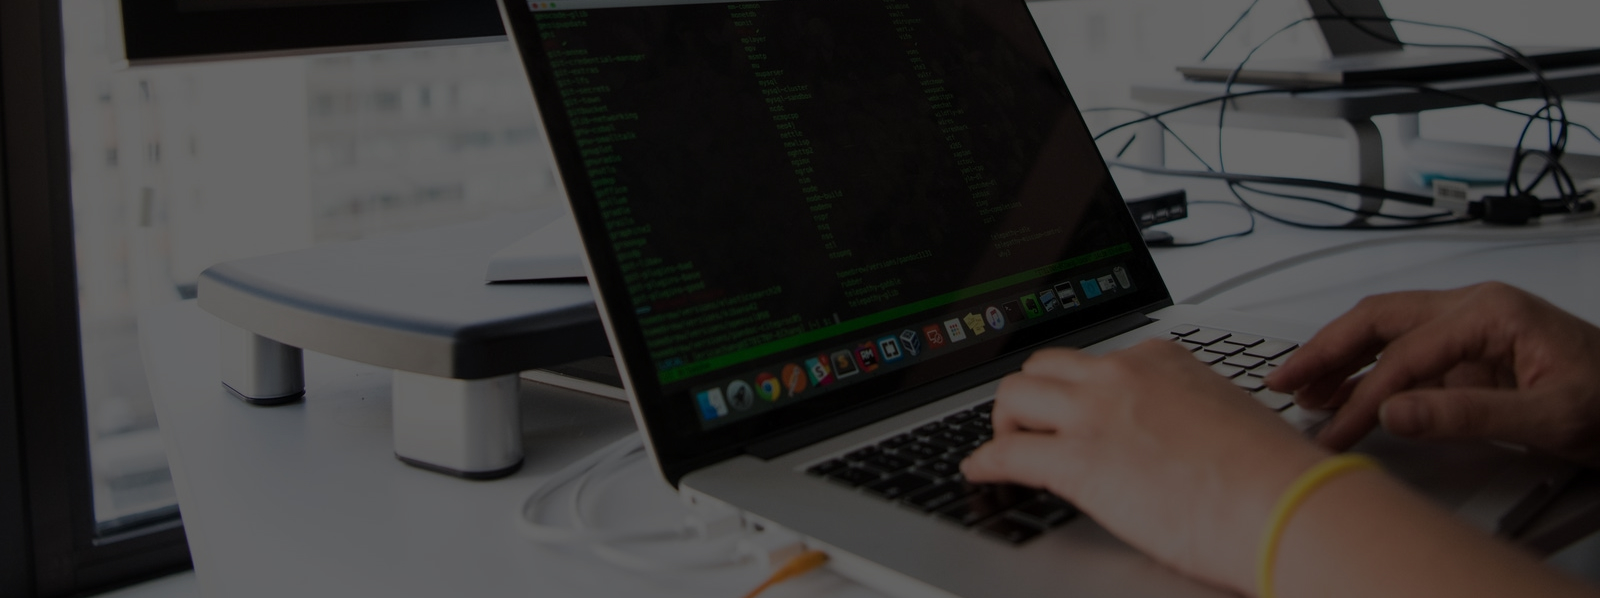
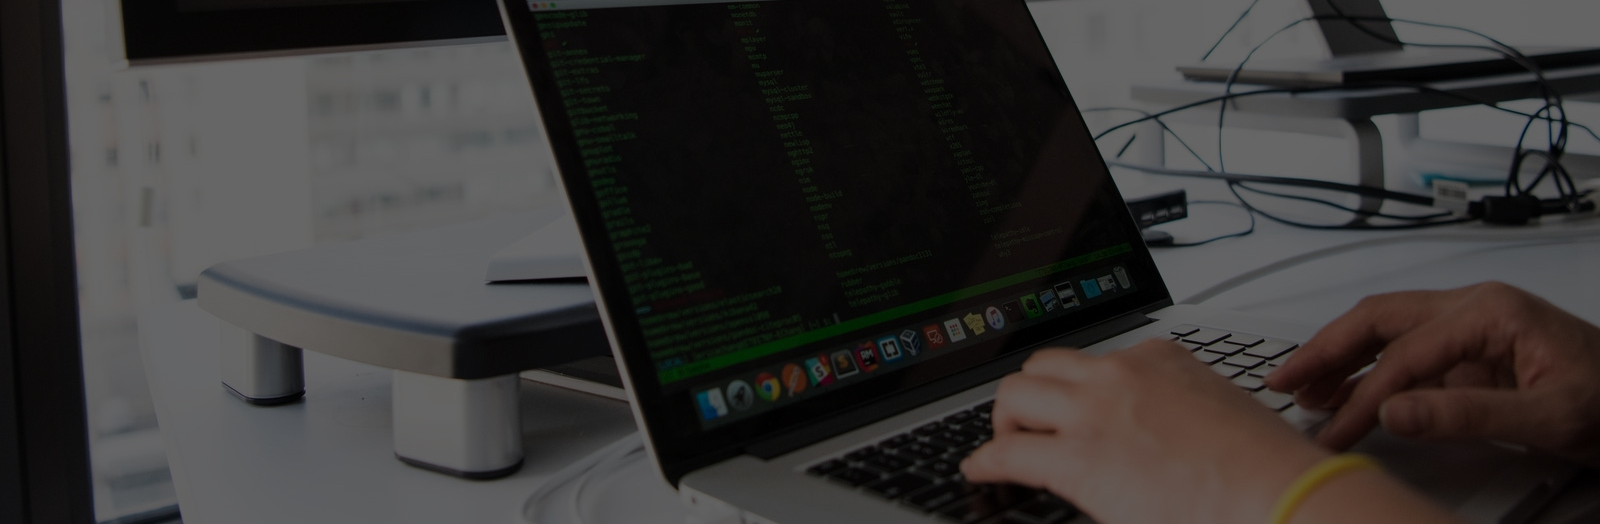
fix: padding blocks

diff --git a/style.css b/style.css
@@ -206,7 +206,7 @@ footer.footer ul li:nth-child(2):after {
 
 .newsletter {
     background: url('./assets/img/newsletter-bg.jpg');
-    height: 598px;
+    height: 522px;
     display: flex;
     align-items: center;
     justify-content: center;
@@ -234,7 +234,7 @@ footer.footer ul li:nth-child(2):after {
     display: flex;
     align-items: center;
     outline: none;
-    margin-bottom: 78px;
+    margin-bottom: 17px;
 }
 
 .newsletter button {
@@ -248,7 +248,7 @@ footer.footer ul li:nth-child(2):after {
 }
 
 .implement {
-    padding: 120px 0 140px 0;
+    padding: 120px 0 133px 0;
 }
 
 .implement-container {
